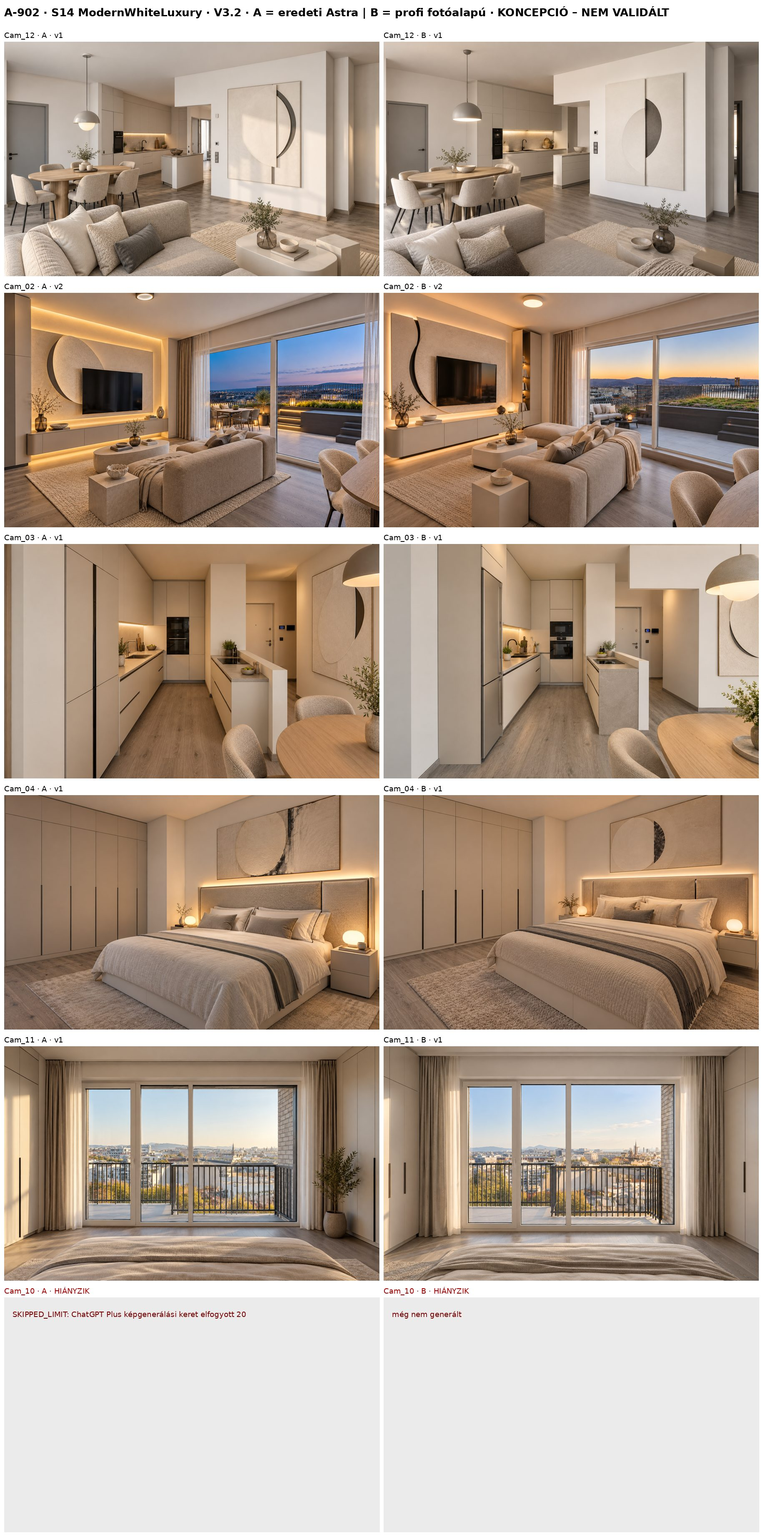
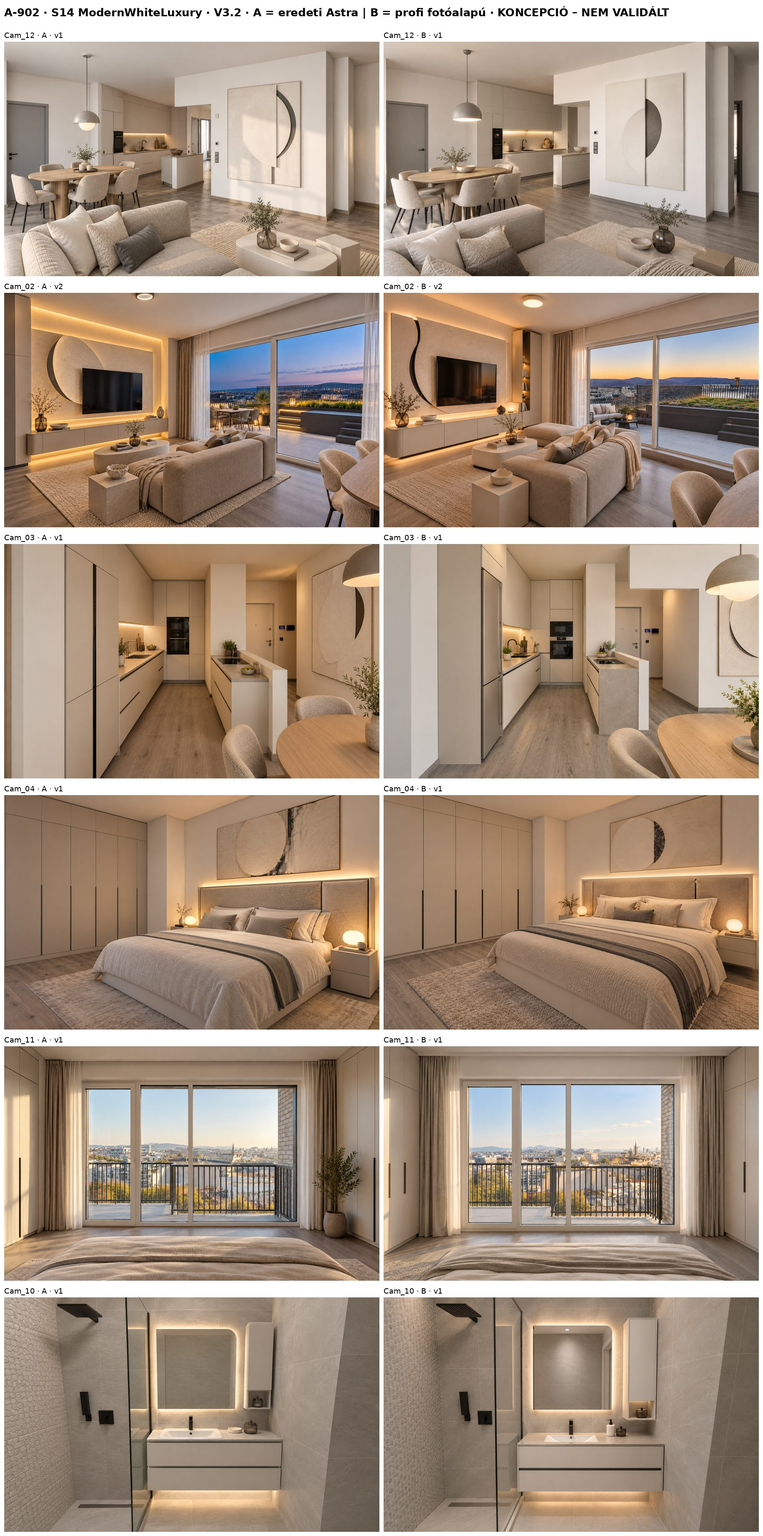
V3.2 renderkör kész: 94 A/B kép + 10 javítás, 17 extra A/B, QA-napló, kontaktlapok, nyilvántartás
Claude-Session: https://claude.ai/code/session_01Gt2UH5qeBpsCbRtRomXsmJ

Changed region(s): [[0.0, 0.8433, 0.9967, 0.9995]]

diff --git a/04_renderek/KEP005_GPT6ASTRA_V3_2_94/checkpoints/wsg_helpers.js b/04_renderek/KEP005_GPT6ASTRA_V3_2_94/checkpoints/wsg_helpers.js
@@ -6,7 +6,8 @@ window.wsgMode=async()=>{for(let k=0;k<3;k++){const ed=wsgEd();if(ed&&/Kép lét
 window.wsgCaret=()=>{const ed=wsgEd();ed.focus();const p=ed.querySelector('p:last-of-type')||ed;const sel=getSelection();const rg=document.createRange();const last=p.lastChild;if(last&&last.nodeType===3){rg.setStart(last,last.length);}else if(last){rg.setStartAfter(last);}else{rg.selectNodeContents(p);rg.collapse(false);}rg.collapse(true);sel.removeAllRanges();sel.addRange(rg);};
 window.wsgFill=async(N,tail)=>{for(let k=0;k<34;k++){const imgs=document.querySelectorAll('form img').length;const busy=document.querySelector('form [role="progressbar"],form svg.animate-spin,form .animate-spin');if(imgs>=N&&!busy)break;await wsgSleep(1000);}if(document.querySelectorAll('form img').length<N)return 'IMGS '+document.querySelectorAll('form img').length;const f=document.getElementById('claudeTxtIn').files[0];if(!f)return 'no txt';const t=await f.text();const ed=wsgEd();const n=s=>s.replace(/\s+/g,'');const chk=()=>n(t)===n(ed.textContent).replace(/^Képlétrehozása/,'');let how='';for(const step of ['ins','sp+ins','paste']){wsgCaret();if(step==='sp+ins'){document.execCommand('insertText',false,' ');await wsgSleep(300);wsgCaret();}if(step==='paste'){const dt=new DataTransfer();dt.setData('text/plain',t);ed.dispatchEvent(new ClipboardEvent('paste',{clipboardData:dt,bubbles:true,cancelable:true}));}else document.execCommand('insertText',false,t);await wsgSleep(1000);how=step;if(ed.innerText.length>t.length*0.9)break;}return JSON.stringify({imgs:document.querySelectorAll('form img').length,src:t.length,how,tail:ed.innerText.trim().endsWith(tail),ok:chk()&&/^Kép létrehozása/.test(ed.innerText)});};
 window.wsgSend=async(title)=>{const b=document.querySelector('form button[aria-label="Küldés"],form button[data-testid="send-button"]');if(!b)return 'no send';wsgPress(b);await wsgSleep(4000);document.title=title;return location.href;};
-window.wsgDl=async(name)=>{const body=document.body.innerText;const tail=body.slice(-700);if(/Előnézet|ChatGPT válaszol|utolsó simítás|Gondolkodás…|\d+%|folyamatban/.test(tail))return 'WAIT';const ims=[...document.querySelectorAll('main img')].filter(i=>i.naturalWidth>=800&&i.alt!=='Felhasználói csatolmány'&&!i.currentSrc.startsWith('data:')&&!i.closest('[data-message-author-role="user"]'));if(!ims.length){if(/elérted|korlát|limit|Túl sok kérés/i.test(tail))return 'LIMIT? '+tail.slice(-300);return 'NOIMG';}const im=ims[ims.length-1];const h1=im.currentSrc;await wsgSleep(5000);if(im.currentSrc!==h1||!im.complete)return 'WAIT2';const r=await fetch(im.currentSrc);const bl=await r.blob();const a=document.createElement('a');a.href=URL.createObjectURL(bl);a.download=name;document.body.appendChild(a);a.click();a.remove();return JSON.stringify({n:ims.length,w:im.naturalWidth,h:im.naturalHeight,size:bl.size,alt:im.alt.slice(0,30)});};
+window.wsgDl=async(name)=>{const body=document.body.innerText;const tail=body.slice(-700);if(!/A válasz elkészült/.test(tail)&&/Előnézet|ChatGPT válaszol|utolsó simítás|Gondolkodás…|Kép készítése|\d+%|folyamatban/.test(tail))return 'WAIT';const ims=[...document.querySelectorAll('main img, img')].filter(i=>i.naturalWidth>=800&&/kép generálva/.test(i.alt)&&!i.currentSrc.startsWith('data:')&&!i.closest('[data-message-author-role="user"]'));if(!ims.length){if(/elérted|korlát|limit|Túl sok kérés/i.test(tail))return 'LIMIT? '+tail.slice(-300);return 'NOIMG';}const im=ims[ims.length-1];const h1=im.currentSrc;await wsgSleep(5000);if(im.currentSrc!==h1||!im.complete)return 'WAIT2';const r=await fetch(im.currentSrc);const bl=await r.blob();const a=document.createElement('a');a.href=URL.createObjectURL(bl);a.download=name;document.body.appendChild(a);a.click();a.remove();return JSON.stringify({n:ims.length,w:im.naturalWidth,h:im.naturalHeight,size:bl.size,alt:im.alt.slice(0,30)});};
 window.wsgPoll=async(name,maxs)=>{let s;for(let k=0;k<maxs/6;k++){s=await wsgDl(name);if(!/^WAIT|^NOIMG/.test(s))return s;await wsgSleep(6000);}return 'TIMEOUT '+s;};
 window.wsgTag=()=>{const L=[...document.querySelectorAll('form input[type=file][accept="image/*"][multiple]')];document.querySelectorAll('[data-wsg="img"]').forEach(e=>{e.removeAttribute('data-wsg');e.setAttribute('aria-label','Fényképek csatolása')});const i=L[L.length-1];i.setAttribute('data-wsg','img');i.setAttribute('aria-label','wsg image input');return L.length+' '+i.id;};
 wsgInj();'helpers ok';
+window.wsgHigh=async()=>{const b=[...document.querySelectorAll('button[aria-label="ChatGPT-modell kiválasztása"]')].pop();if(!b)return 'nobtn';if(/High$/.test(b.innerText.trim())&&!/Extra/.test(b.innerText))return 'High';wsgPress(b);await wsgSleep(1000);const s=document.querySelector('[role=slider]');if(!s)return 'noslider';s.focus();for(let i=0;i<6&&+s.getAttribute('aria-valuenow')!==2;i++){const k=+s.getAttribute('aria-valuenow')>2?'ArrowLeft':'ArrowRight';s.dispatchEvent(new KeyboardEvent('keydown',{key:k,code:k,bubbles:true}));await wsgSleep(400);}document.dispatchEvent(new KeyboardEvent('keydown',{key:'Escape',bubbles:true}));await wsgSleep(500);return 'set:'+s.getAttribute('aria-valuenow')+' '+[...document.querySelectorAll('button[aria-label="ChatGPT-modell kiválasztása"]')].pop().innerText.replace(/\n/g,' ');};

diff --git a/04_renderek/KEP005_GPT6ASTRA_V3_2_94/checkpoints/kontakt_extra32.py b/04_renderek/KEP005_GPT6ASTRA_V3_2_94/checkpoints/kontakt_extra32.py
@@ -1,0 +1,24 @@
+"""Extra képek A/B kontaktlapja (X01–X17): soronként egy extra, bal A, jobb B."""
+import json,re
+from PIL import Image,ImageDraw,ImageFont
+W='/home/claude/work'; O=W+'/out32/img/'
+L=json.load(open(W+'/out32/naplo.json'))
+fb=ImageFont.truetype('/usr/share/fonts/truetype/dejavu/DejaVuSans-Bold.ttf',26)
+fs=ImageFont.truetype('/usr/share/fonts/truetype/dejavu/DejaVuSans.ttf',18)
+X=[f'X{i:02d}' for i in range(1,18)]
+w=900; out=[]
+for part,ids in (('1',X[:9]),('2',X[9:])):
+    hs=[]
+    for x in ids:
+        im=Image.open(O+L[x+'_A']['kep']); hs.append(int(w*im.height/im.width))
+    sheet=Image.new('RGB',(2*w+30,70+sum(h+40 for h in hs)),'white'); d=ImageDraw.Draw(sheet)
+    d.text((10,14),f'A-902 · V3.2 EXTRÁK {part}/2 · A = eredeti Astra | B = profi fotóalapú · KONCEPCIÓ – NEM VALIDÁLT',fill='black',font=fb)
+    y=70
+    for x,h in zip(ids,hs):
+        for i,v in enumerate('AB'):
+            e=L[x+'_'+v]; m=re.search(r'A902_(S1\d)_([A-Za-z]+)_EXTRA_(Cam_[A-Za-z0-9_]+?)_A__',e['kep'])
+            im=Image.open(O+e['kep']).convert('RGB').resize((w,h)); sheet.paste(im,(10+i*(w+10),y+30))
+            d.text((10+i*(w+10),y+4),f'{x} · {m.group(1)} {m.group(2)} · {m.group(3)} · {v}',fill='black',font=fs)
+        y+=h+40
+    p=f'/mnt/user-data/outputs/V32_EXTRA_{part}_kontaktlap_AB.jpg'; sheet.save(p,quality=80); out.append(p)
+print('\n'.join(out))

diff --git a/04_renderek/KEP005_GPT6ASTRA_V3_2_94/checkpoints/kontakt32.py b/04_renderek/KEP005_GPT6ASTRA_V3_2_94/checkpoints/kontakt32.py
@@ -8,7 +8,9 @@ fs=ImageFont.truetype('/usr/share/fonts/truetype/dejavu/DejaVuSans.ttf',18)
 CAMS=['Cam_12','Cam_02','Cam_03','Cam_04','Cam_11','Cam_10']
 slots={}
 for k,v in L.items():
-    m=re.match(r'(\d+)_([AB])(?:_(v\d))?$',k); nr,var,ver=m.group(1),m.group(2),m.group(3) or 'v1'
+    m=re.match(r'(\d+)_([AB])(?:_(v\d))?$',k)
+    if not m: continue
+    nr,var,ver=m.group(1),m.group(2),m.group(3) or 'v1'
     if int(nr)>30: continue
     sty=re.search(r'A902_(S1\d)_([A-Za-z]+)',v['kep']); cam=re.search(r'(Cam_\d+)',v['kep']).group(1)
     key=(sty.group(1),sty.group(2),cam,var)

diff --git a/04_renderek/KEP005_GPT6ASTRA_V3_2_94/checkpoints/b.py b/04_renderek/KEP005_GPT6ASTRA_V3_2_94/checkpoints/b.py
@@ -1,7 +1,7 @@
 import json,sys
 import os
 P={p['seq']:p for p in json.load(open('/home/claude/work/v32_plan.json'))+(json.load(open('/home/claude/work/v32_fix_plan.json')) if os.path.exists('/home/claude/work/v32_fix_plan.json') else [])}
-T={'1':(2027661463,'ref_449','ref_347'),'2':(2027661464,'ref_372','ref_278')}
+T={'1':(2027661463,'ref_449','ref_347'),'2':(2027661477,'ref_372','ref_278')}
 acts=[]
 for arg in sys.argv[1:]:
     seq,tab,ri,rt=arg.split(':'); p=P[int(seq)]; tid=T[tab][0]; d='/home/claude/work/'+p['dir']

diff --git a/04_renderek/KEP005_GPT6ASTRA_V3_2_94/README.md b/04_renderek/KEP005_GPT6ASTRA_V3_2_94/README.md
@@ -16,8 +16,11 @@
 - `qa/gate/` – Blender-lockpont és élátfedés kapukép; `qa/kontaktlap/` – A/B kontaktlapok
 - `checkpoints/` – terv, QA-napló, építő- és futtató szkriptek
 
-## Állapot – 2026-10-26 ~11:20
-- Kész: 58 kép (47 alap v1 + 11 javítás), alap-sorrend 1–48 lefutott (S11–S13 teljes, S14 Cam_10 nélkül, S15 csak Cam_12 hero).
-- **SKIPPED_LIMIT:** seq 49 (S14 Cam_10 A) – a ChatGPT Plus képgenerálási kerete elfogyott; visszaáll 2026-10-27 7:40. Kerülőutat nem használtunk.
-- Hátra: seq 49–60 (S14 Cam_10 A/B, S15 Cam_02/03/04/11/10 A/B), majd a 17 extra A/B (seq 61–94).
-- Stílusonkénti A/B kontaktlapok: `qa/kontaktlap/V32_S1x_*_kontaktlap_AB.jpg` (soronként kamera, elfogadott verzió; hiány jelölve).
+## Állapot – 2026-10-26 16:50 (KÉSZ)
+- **104 kép kész:** a teljes 47 × 2 = 94 kép (v1) + 10 javítókép (v2–v4). Minden kép QA-zva, státusz: KONCEPCIÓ – NEM VALIDÁLT.
+- 11:20-kor a ChatGPT Plus képkerete elfogyott (seq 49 SKIPPED_LIMIT); 15:35-től **ChatGPT Pro**-n folytatva, a seq 49 új chatben újra lefutott. Kerülőút nem volt.
+- Gondolkodási szint: minden képnél **High**, kivéve X05 A/B (S11 Cam_F_3488), amely a véletlenül „Pro” modellre állított választóval készült (segédügynökkel) – a naplóban jelölve.
+- X06 A: az első chat (6adf6e03) nem töltött be, kép nem jött → új chatben újraküldve (6adf6f96).
+- Extráknál (Cam_F_*, Vanity) az A/B különbség a várakozásnak megfelelően kicsi; QA-ban „A≈B” jelölve.
+- Javítási jelöltek (nem futtatva, tulajdonosi döntésre): X10 A/B és X11 A – a fotón fehér falak greige-re színeződtek; több képen pendant/kültéri lámpa villamos kiállás nélkül; X06/X13 gardrób takarja a meglévő aljzatot.
+- Kontaktlapok: `qa/kontaktlap/V32_S11..S15_*_kontaktlap_AB.jpg` (alap) és `V32_EXTRA_1/2_kontaktlap_AB.jpg` (extrák). Chat-azonosítók: `checkpoints/chat_azonositok_pro.txt`.
